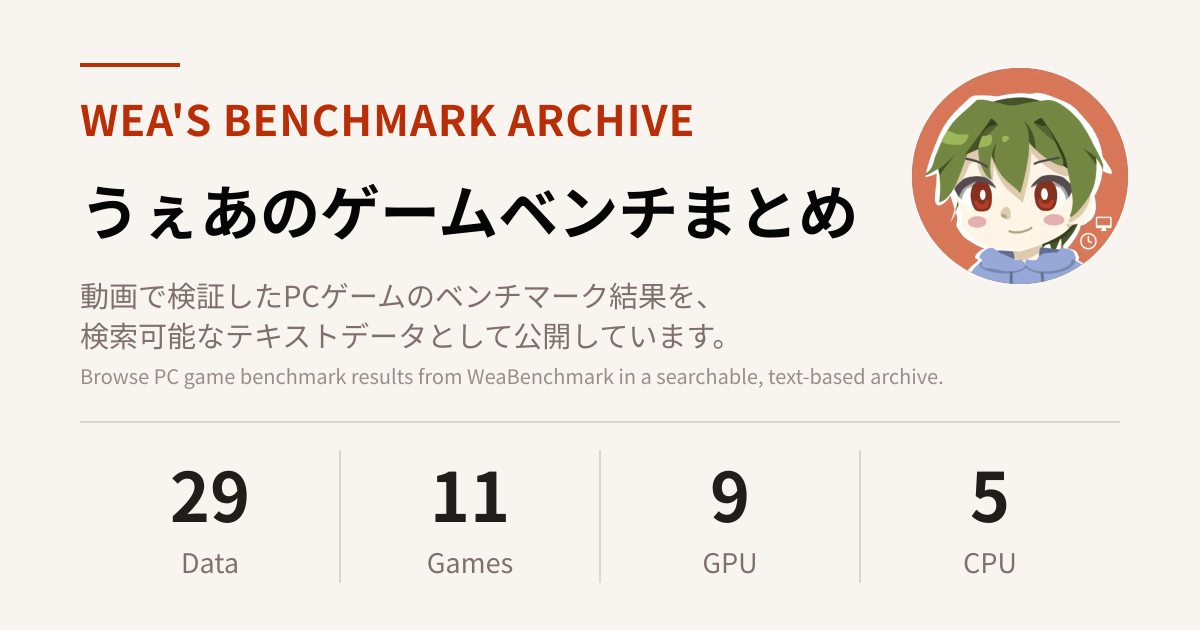
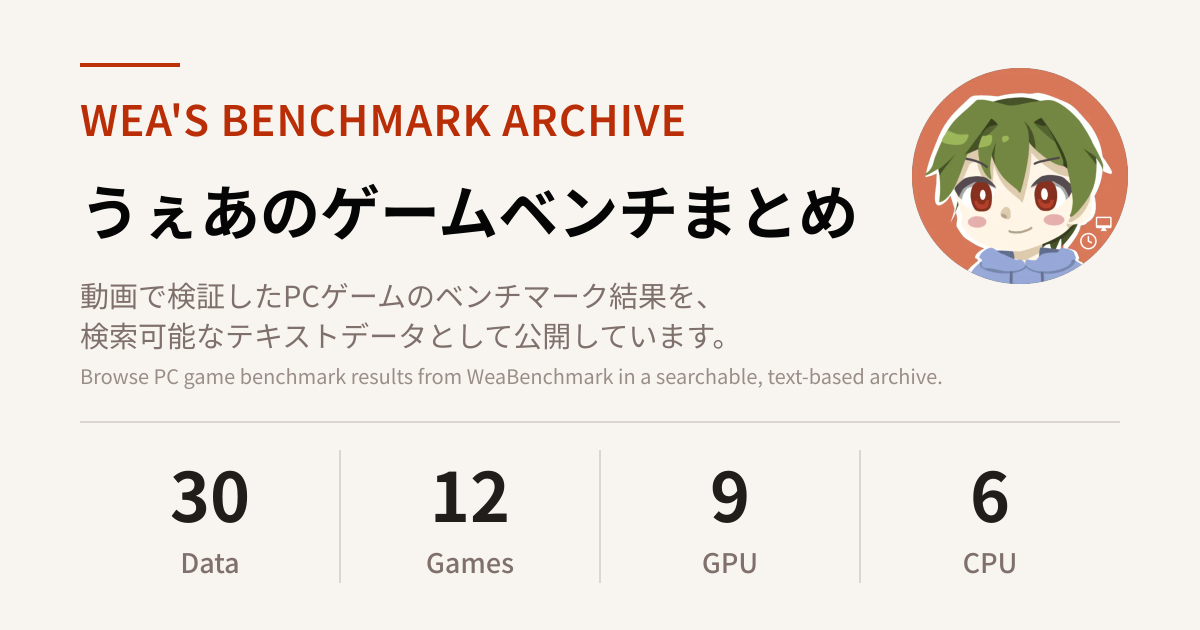
画像生成の最適化とデータ追加

diff --git a/benchmarks/260905_gakumas_rtx4070s_r7-5800x3d.html b/benchmarks/260905_gakumas_rtx4070s_r7-5800x3d.html
@@ -1,0 +1,35 @@
+<!doctype html>
+<html lang="ja">
+<head>
+  <meta charset="utf-8"><meta name="viewport" content="width=device-width, initial-scale=1"><meta name="robots" content="index,follow"><meta name="theme-color" content="#bc3005">
+  <title>Gakuen Idolmaster benchmark — Ryzen 7 5800X3D + RTX 4070 SUPER | Wea&#39;s Benchmark Archive</title>
+  <meta name="description" content="Gakuen Idolmaster benchmark results on Ryzen 7 5800X3D and RTX 4070 SUPER, including graphics settings, average FPS, and 1% low FPS.">
+  <link rel="canonical" href="https://benchmark.wea017.net/benchmarks/260905_gakumas_rtx4070s_r7-5800x3d.html">
+  <meta property="og:type" content="article">
+  <meta property="og:locale" content="en_US">
+  <meta property="og:site_name" content="Wea's Benchmark Archive">
+  <meta property="og:title" content="Gakuen Idolmaster benchmark — Ryzen 7 5800X3D + RTX 4070 SUPER | Wea&#39;s Benchmark Archive">
+  <meta property="og:description" content="Gakuen Idolmaster benchmark results on Ryzen 7 5800X3D and RTX 4070 SUPER, including graphics settings, average FPS, and 1% low FPS.">
+  <meta property="og:url" content="https://benchmark.wea017.net/benchmarks/260905_gakumas_rtx4070s_r7-5800x3d.html">
+  <meta property="og:image" content="https://benchmark.wea017.net/assets/ogp/260905_gakumas_rtx4070s_r7-5800x3d.png">
+  <meta property="og:image:type" content="image/png">
+  <meta property="og:image:width" content="1200">
+  <meta property="og:image:height" content="630">
+  <meta property="og:image:alt" content="Gakuen Idolmaster benchmark result: Ryzen 7 5800X3D, RTX 4070 SUPER">
+  <meta name="twitter:card" content="summary_large_image">
+  <meta name="twitter:title" content="Gakuen Idolmaster benchmark — Ryzen 7 5800X3D + RTX 4070 SUPER | Wea&#39;s Benchmark Archive">
+  <meta name="twitter:description" content="Gakuen Idolmaster benchmark results on Ryzen 7 5800X3D and RTX 4070 SUPER, including graphics settings, average FPS, and 1% low FPS.">
+  <meta name="twitter:image" content="https://benchmark.wea017.net/assets/ogp/260905_gakumas_rtx4070s_r7-5800x3d.png">
+  <link rel="icon" type="image/webp" href="../assets/WeaBenchmark_600px.webp">
+  <link rel="preconnect" href="https://fonts.googleapis.com">
+  <link rel="preconnect" href="https://fonts.gstatic.com" crossorigin>
+  <link href="https://fonts.googleapis.com/css2?family=Material+Symbols+Outlined:opsz,wght,FILL,GRAD@20..48,400,0,0&family=Noto+Sans+JP:wght@400;500;600;700;800&display=swap" rel="stylesheet">
+  <link rel="stylesheet" href="../assets/style.css">
+</head>
+<body data-benchmark-id="260905_gakumas_rtx4070s_r7-5800x3d">
+  <header class="site-header"><div class="container header-inner"><a class="brand" href="../index.html" data-i18n="siteBrand">うぇあのゲームベンチまとめ</a><div class="header-actions"><label class="language-select"><span class="sr-only" data-i18n="language">言語</span><span class="material-symbols-outlined" aria-hidden="true">language</span><span class="language-current" aria-hidden="true">日本語</span><span class="material-symbols-outlined language-arrow" aria-hidden="true">keyboard_arrow_down</span><select id="language-switcher" aria-label="言語を選択"><option value="ja">日本語</option><option value="en">English</option></select></label><button class="theme-toggle" type="button" aria-label="ダークモードに切り替え"><span class="material-symbols-outlined" aria-hidden="true">dark_mode</span><span>ダーク</span></button></div></div></header>
+  <main class="container detail" id="benchmark-detail"><p data-i18n="loading">データを読み込んでいます…</p></main>
+  <footer><div class="container">© Wea017net</div></footer>
+  <script type="module" src="../assets/app.js"></script>
+</body>
+</html>

diff --git a/COMMANDS.md b/COMMANDS.md
@@ -27,6 +27,7 @@ npm run generate
 - `data/benchmarks.json`
 - `assets/ogp/home.png`
 - `assets/ogp/<ベンチマークID>.png`
+- `assets/ogp/generation-manifest.json`（環境差による不要な画像の再生成を防ぐハッシュ）
 - `benchmarks/<ベンチマークID>.html`
 
 ## OGP関連を一括生成

diff --git a/COMMANDS.en.md b/COMMANDS.en.md
@@ -25,6 +25,7 @@ Generated files:
 - `data/benchmarks.json`
 - `assets/ogp/home.png`
 - `assets/ogp/<benchmark-id>.png`
+- `assets/ogp/generation-manifest.json` (hashes that prevent environment-only image regeneration)
 - `benchmarks/<benchmark-id>.html`
 
 ## Generate all OGP assets
